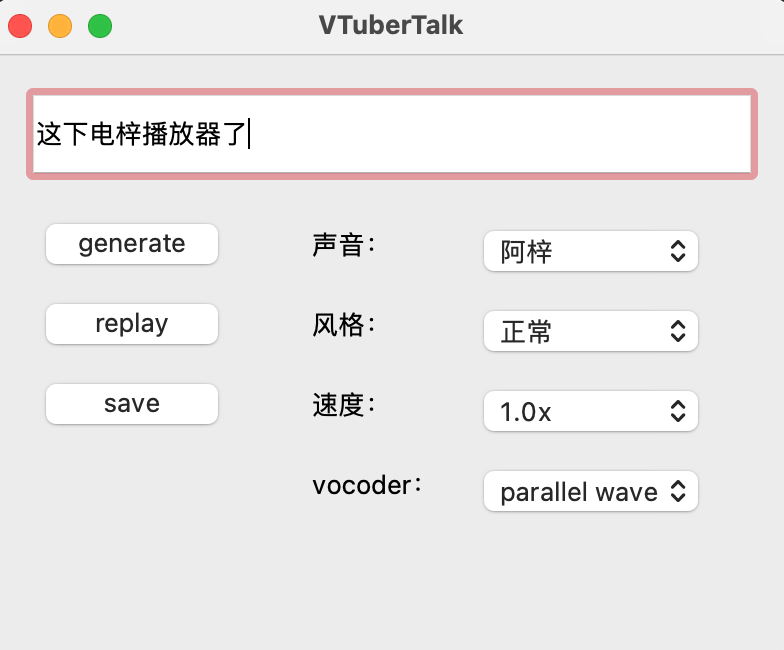
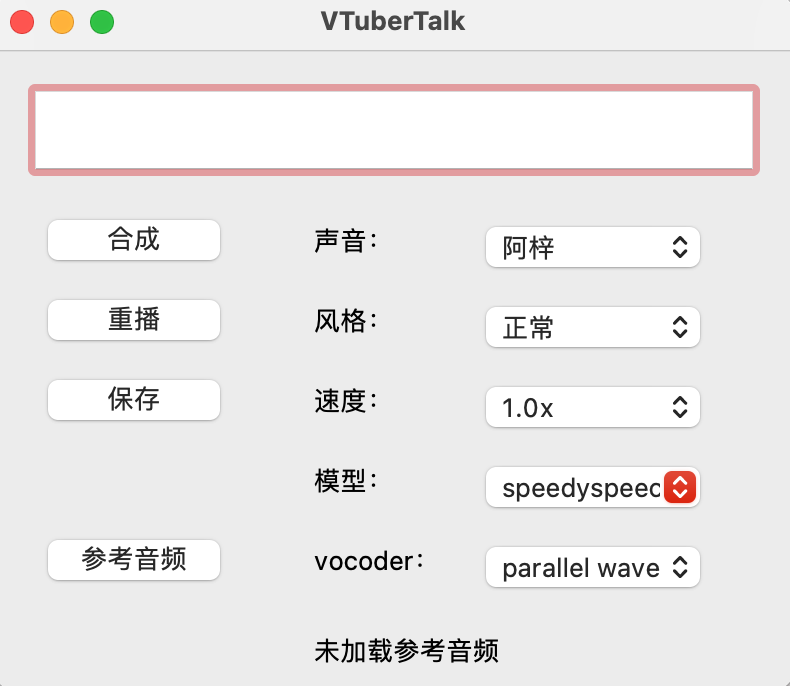
Update gui picture

diff --git a/README.md b/README.md
@@ -581,7 +581,7 @@ python3 train/exps/inference.py \
     --phones_dict=dump/phone_id_map.txt
 ```
 
-## 5. GUI界面 (WIP)
+## 5. GUI界面
 
 ![Alt text](gui/gui.png?raw=true "Title")
 
@@ -603,7 +603,8 @@ python gui/main2.py
 
 - [x] 添加GST模块。
 - [x] spleeter降噪。
+- [ ] 静态模型推理。
 - [ ] 优化ASR流程，目前batch size = 1，速度慢。
 - [ ] preprocess优化，不需要重复处理数据集。
-- [ ] 小规模数据集训练
-- [ ] VAE情感控制
+- [ ] 小规模数据集训练（AdaSpeech）。
+- [ ] VAE情感控制。
